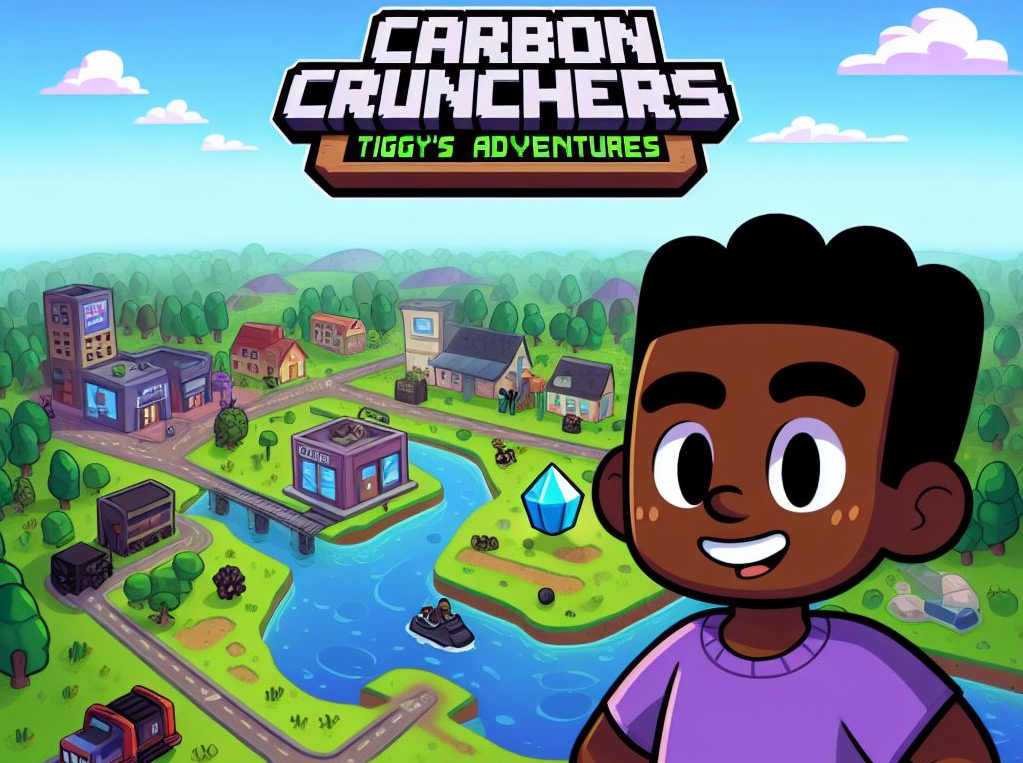
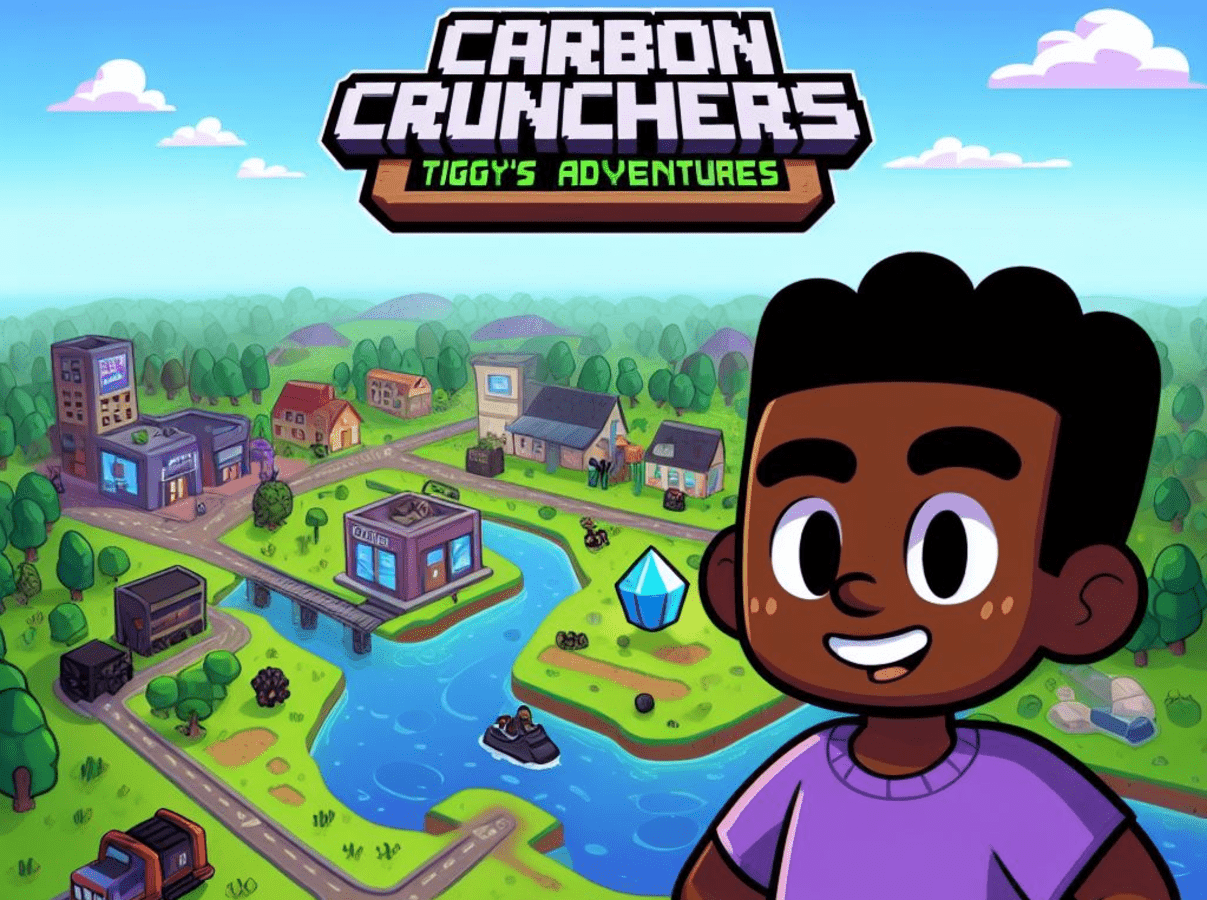
jpg sized

diff --git a/core/src/com/javaeducational/game/screens/MainMenuScreen.java b/core/src/com/javaeducational/game/screens/MainMenuScreen.java
@@ -33,10 +33,12 @@ public class MainMenuScreen implements Screen {
         this.buttonPlay = new TextButton("Play", buttonSkin, "default");
         this.buttonExit = new TextButton("Exit", buttonSkin, "default");
         this.buttonInstructions = new TextButton("Instructions", buttonSkin, "default");
-
+    
         // Load the background texture and create a texture region
-        Texture backgroundTexture = new Texture(Gdx.files.internal("MainMenu/background_java.png"));
+        Texture backgroundTexture = new Texture(Gdx.files.internal("MainMenu/java_game_pic.jpg"));
         backgroundTexture.setWrap(Texture.TextureWrap.Repeat, Texture.TextureWrap.Repeat);
+    
+        // Resize the texture region to match the screen dimensions
         backgroundTextureRegion = new TextureRegion(backgroundTexture, 0, 0, Gdx.graphics.getWidth(), Gdx.graphics.getHeight());
     }
 
